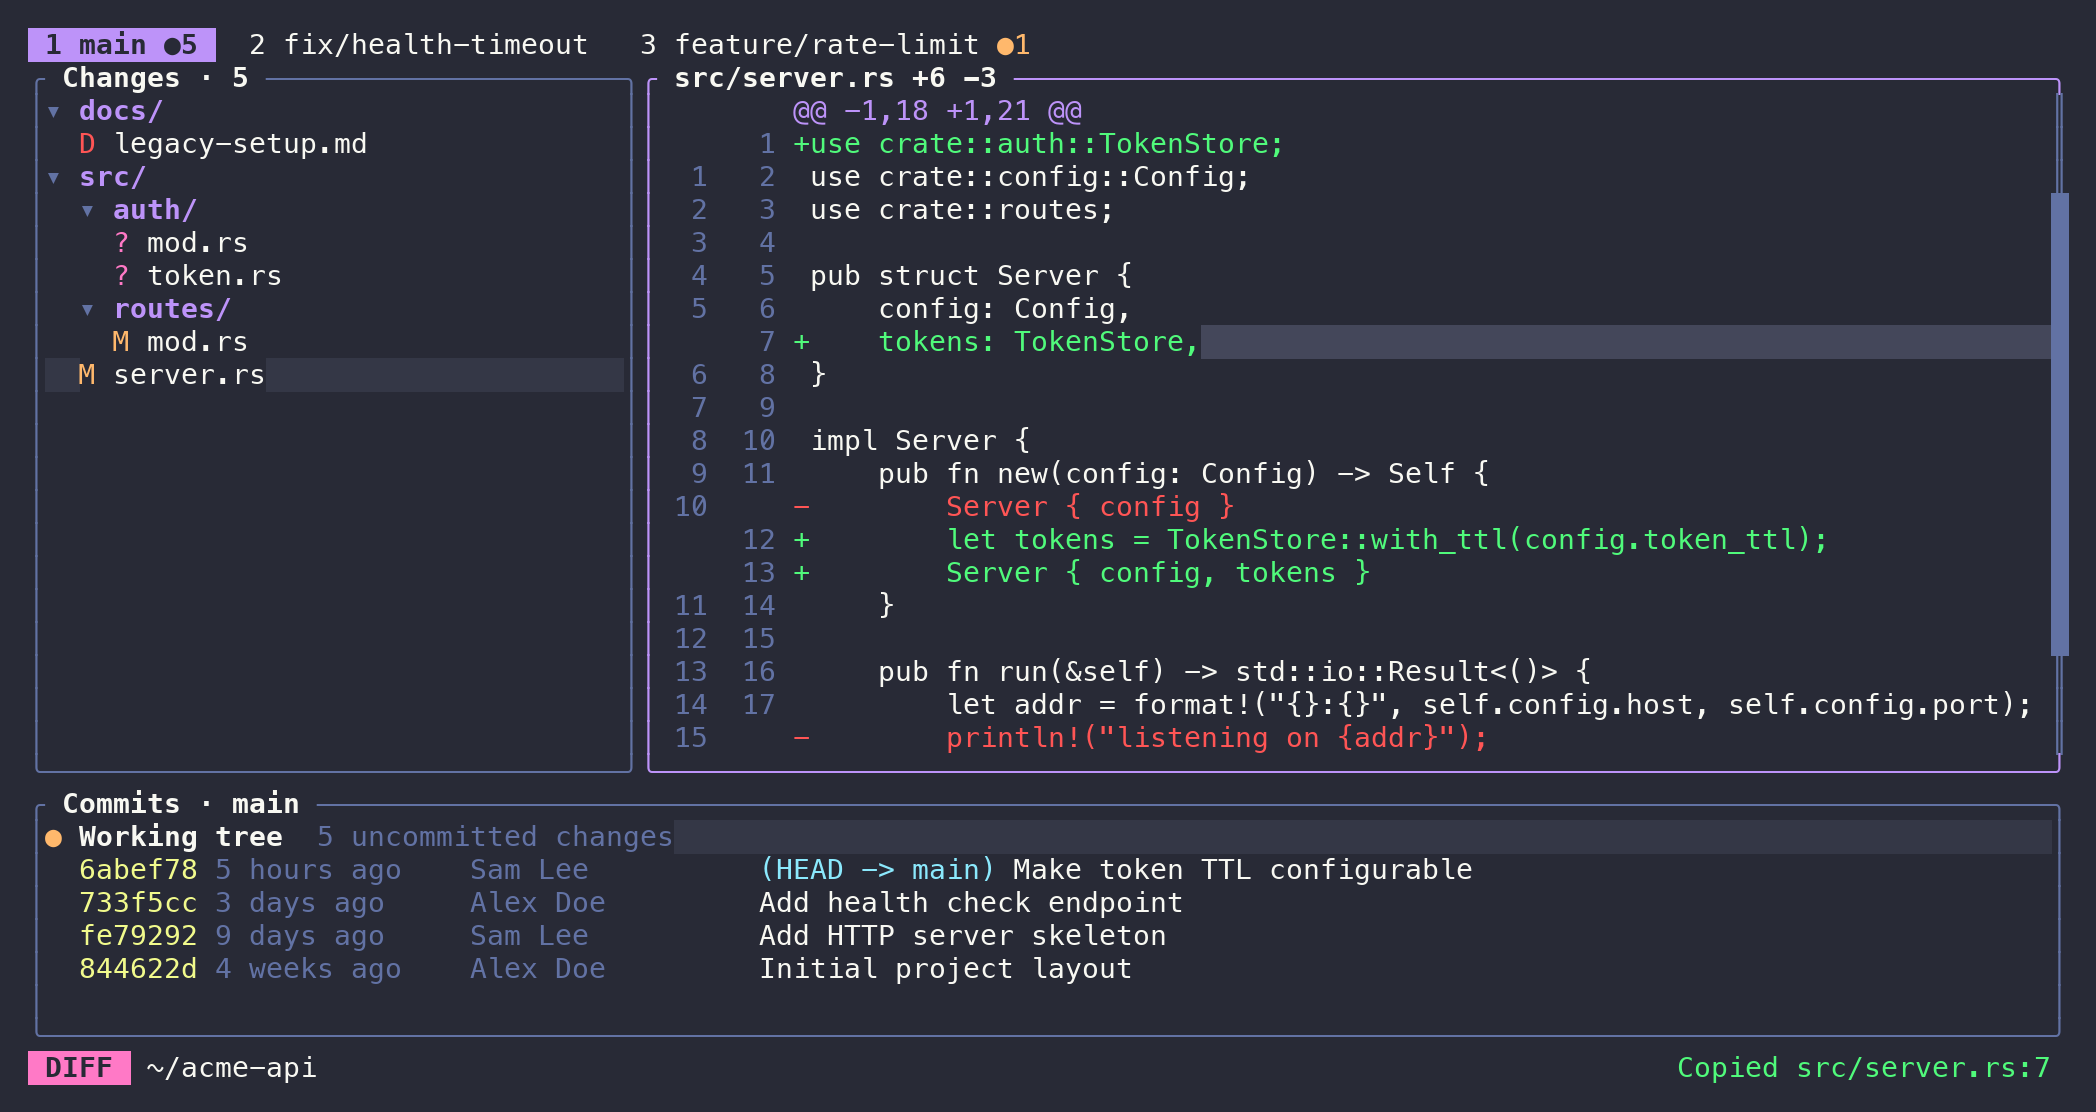
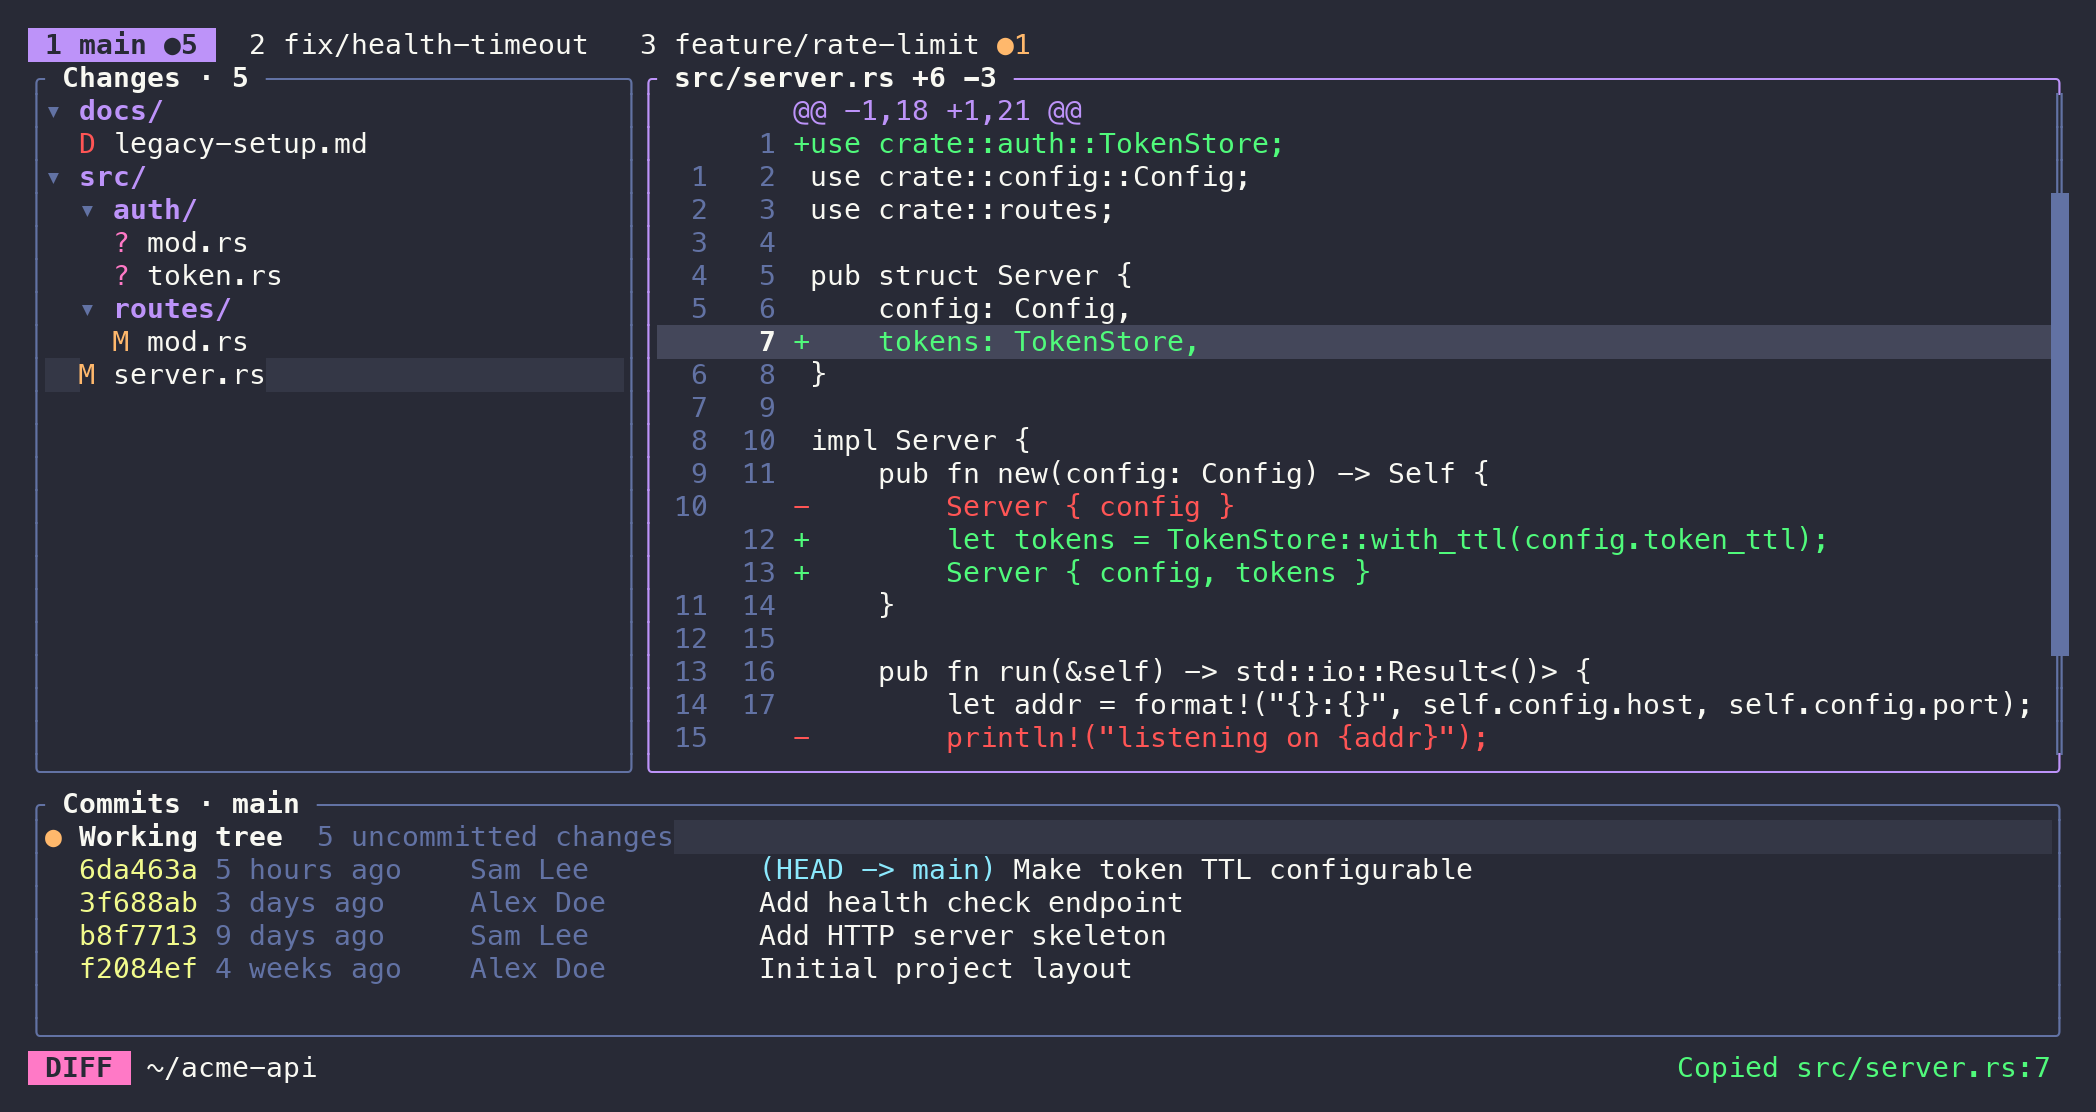
fix: highlight full diff row and brighten selected line numbers
Span styles carried their own bg (Dracula), overriding the row-level
highlight so the gutter wasn't highlighted. Patch the highlight onto
every span and render the selected row's line numbers in a brighter fg.

Changed region(s): [[0.3101, 0.2752, 0.5892, 0.3363], [0.031, 0.7644, 0.093, 0.8867]]

diff --git a/src/ui.rs b/src/ui.rs
@@ -345,17 +345,25 @@ fn draw_diff(f: &mut Frame, app: &mut App, area: Rect) {
             };
             let gutter = format!("{} {} ", num(l.old), num(l.new));
             let text = skip_cols(&l.text, st.diff_hscroll);
-            let mut spans = vec![Span::styled(gutter, theme.dim)];
+            let selected = st.diff_sel == Some(i);
+            let gutter_style = if selected {
+                theme.gutter_sel
+            } else {
+                theme.dim
+            };
+            let mut spans = vec![Span::styled(gutter, gutter_style)];
             spans.extend(fit_spans(
                 vec![Span::styled(marker, style), Span::styled(text, style)],
                 text_w + 1,
             ));
-            let line = Line::from(spans);
-            if st.diff_sel == Some(i) {
-                line.style(sel_style)
-            } else {
-                line
+            if selected {
+                // Span styles carry their own bg (e.g. Dracula), so patch the
+                // highlight onto every span, gutter included.
+                for span in &mut spans {
+                    span.style = span.style.patch(sel_style);
+                }
             }
+            Line::from(spans)
         })
         .collect();
     f.render_widget(Paragraph::new(lines), inner);

diff --git a/src/theme.rs b/src/theme.rs
@@ -26,6 +26,8 @@ pub struct Theme {
     /// Selected diff line: background only, so diff colors stay intact.
     pub diff_sel: Style,
     pub diff_sel_inactive: Style,
+    /// Line-number gutter of the selected diff line (foreground only).
+    pub gutter_sel: Style,
     pub add: Style,
     pub del: Style,
     pub hunk: Style,
@@ -68,6 +70,7 @@ impl Theme {
             // 256-color grays: reliably a little lighter than a dark background.
             diff_sel: Style::new().bg(Color::Indexed(238)),
             diff_sel_inactive: Style::new().bg(Color::Indexed(236)),
+            gutter_sel: s.fg(Color::White).add_modifier(Modifier::BOLD),
             add: s.fg(Color::Green),
             del: s.fg(Color::Red),
             hunk: s.fg(Color::Cyan),
@@ -113,6 +116,7 @@ impl Theme {
             cursor_inactive: Style::new().bg(Color::Rgb(0x34, 0x37, 0x46)),
             diff_sel: Style::new().bg(LINE),
             diff_sel_inactive: Style::new().bg(Color::Rgb(0x34, 0x37, 0x46)),
+            gutter_sel: s.fg(FG).add_modifier(Modifier::BOLD),
             add: s.fg(GREEN),
             del: s.fg(RED),
             hunk: s.fg(PURPLE),
